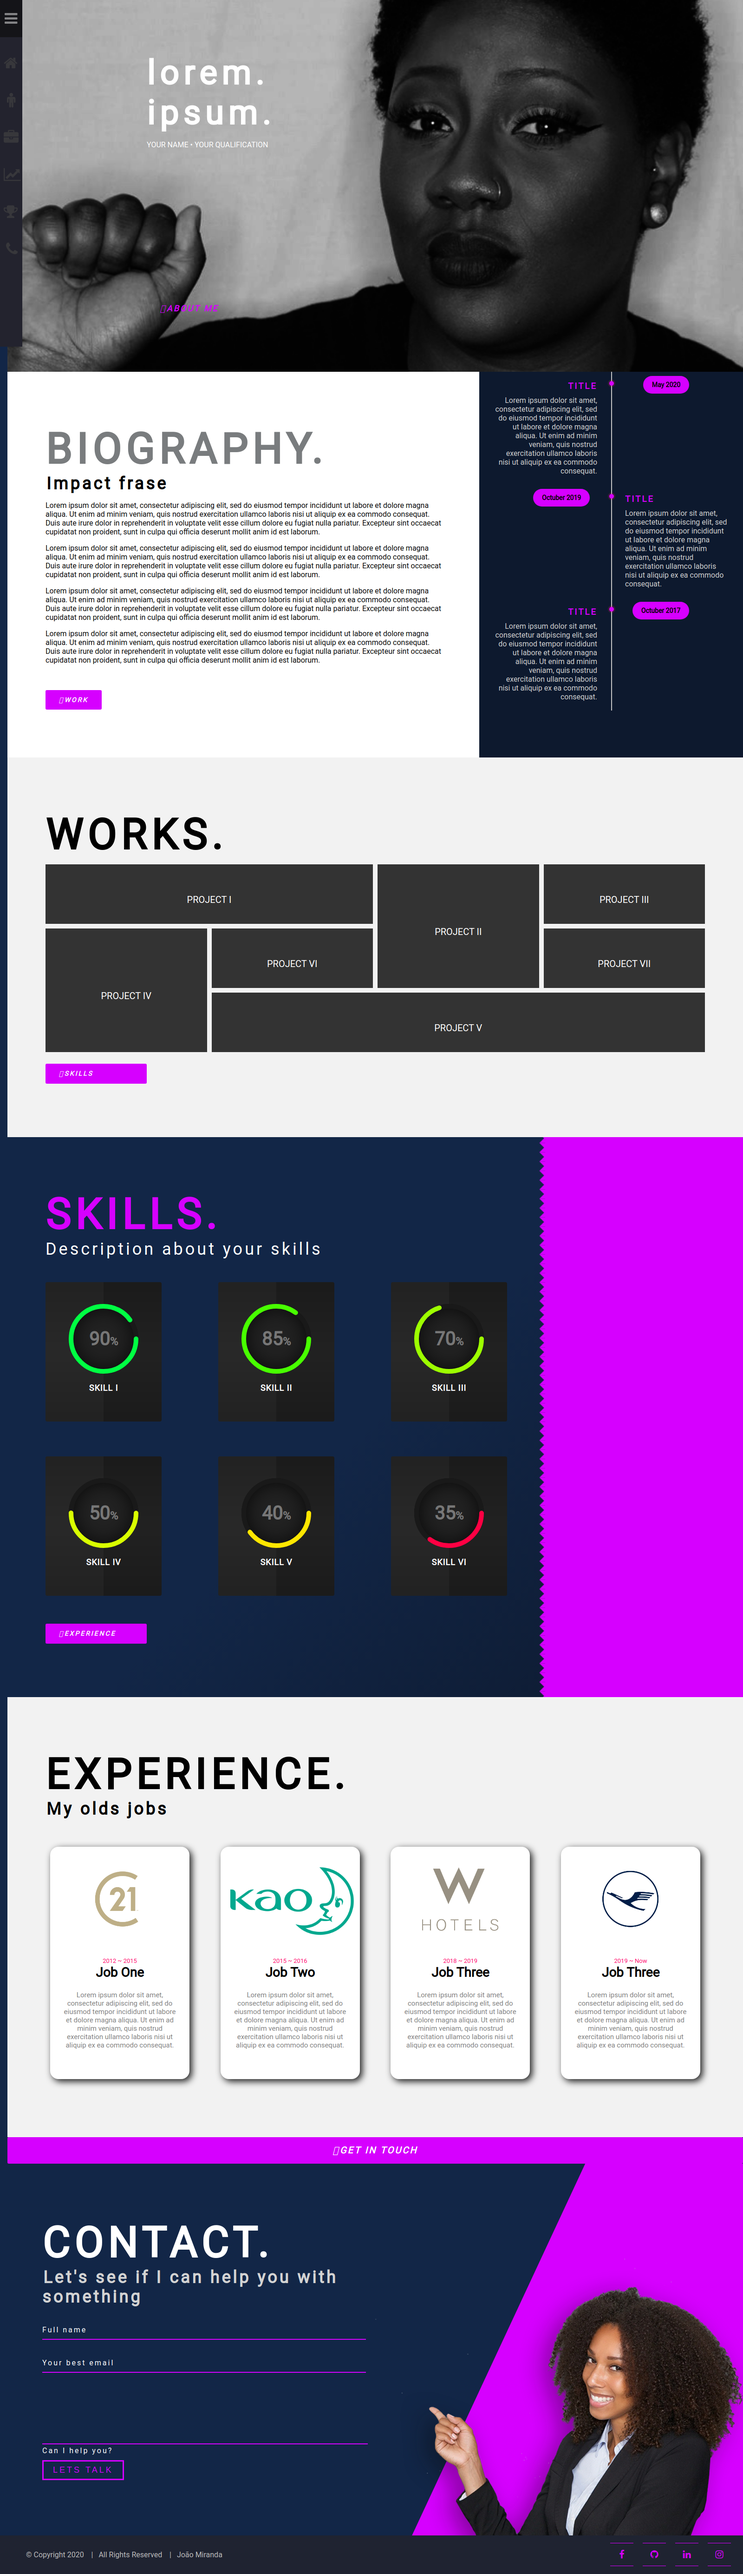
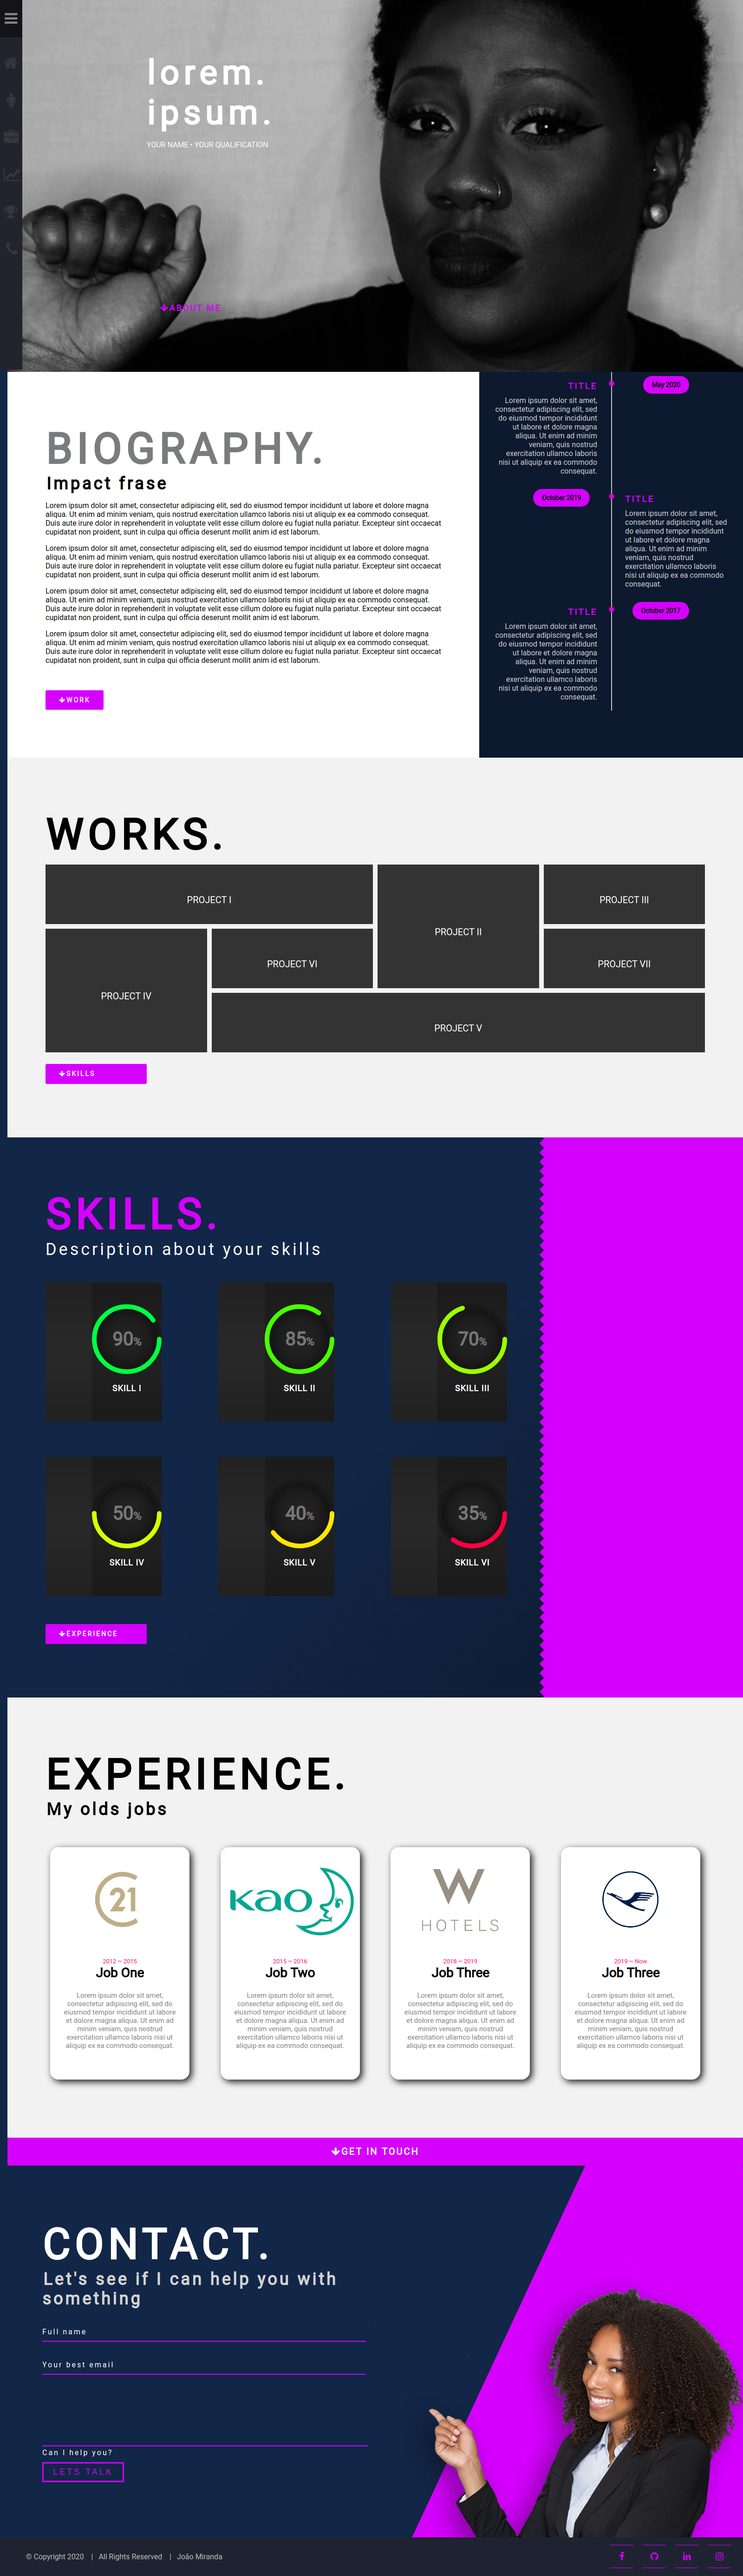
[UPDATE] Add some fix

diff --git a/index.html b/index.html
@@ -2,15 +2,21 @@
 <html lang="en">
 
 <head>
+    <title>Personal Portfolio - Model I</title>
     <meta charset="UTF-8">
+    <meta name="author" content="João Miranda" />
     <meta name="viewport" timecontent="width=device-width, initial-scale=1.0">
-    <title>Portifolio Model</title>
-    <link rel="stylesheet" href="./css/style.css">
+    <meta name="description" content="Hello, my name is Lorem Ipsum and this is my portfolio!" />
 
+    <!-- CSS -->
+    <link rel="stylesheet" href="./css/style.css">
+    <!-- ICONS -->
     <link href="https://stackpath.bootstrapcdn.com/font-awesome/4.7.0/css/font-awesome.min.css" rel="stylesheet"
         integrity="sha384-wvfXpqpZZVQGK6TAh5PVlGOfQNHSoD2xbE+QkPxCAFlNEevoEH3Sl0sibVcOQVnN" crossorigin="anonymous">
-
+    <!-- FONTS -->
     <link href="https://fonts.googleapis.com/css?family=Anton|Gugi|Lato|Roboto|Sofia&display=swap" rel="stylesheet" />
+
+
 </head>
 
 <body>
@@ -25,10 +31,10 @@
                     <span class="link-text logo-text">LOGO</span>
                 </a>
             </li>
-
             <li class="nav-item">
                 <a href="#home" class="nav-link">
                     <i class="fa fa-home fa-2x" aria-hidden="true"></i>
+
                     <span class="link-text">Home</span>
                 </a>
             </li>
@@ -78,7 +84,7 @@
             <h2>lorem. <br>
                 ipsum.</h2>
             <span>YOUR NAME • YOUR QUALIFICATION</span>
-            <a href="#about"><i class="fas fa-chevron-down">About me</i></a>
+            <a href="#about" accesskey="a"><i class="fa fa-arrow-down"></i>About me</a>
         </section>
 
 
@@ -119,7 +125,7 @@
                     cillum dolore eu fugiat nulla pariatur. Excepteur sint occaecat cupidatat non proident, sunt in
                     culpa qui officia deserunt mollit anim id est laborum.
                 </p>
-                <a href="#work" class="navButton"><i class="fas fa-chevron-down">WORK</i></a>
+                <a href="#work" accesskey="w" class="navButton"><i class="fa fa-arrow-down"></i>WORK</a>
             </div>
 
             <section style="width: 40%" class="sec2">
@@ -172,7 +178,7 @@
 
         <!-- Work  -->
         <div id="work" style=" background-color: #f2f2f2;">
-            <div class="" style="display: flex; flex-direction: column; padding: 115px 82px;">
+            <div class="work-control">
                 <div class="workHeader">
 
                     <h2>Works.</h2>
@@ -224,7 +230,7 @@
                 </div>
 
 
-                <a href="#skill"><i class="fas fa-chevron-down">Skills</i></a>
+                <a href="#skill" accesskey="s"><i class="fa fa-arrow-down"></i>Skills</a>
             </div>
 
         </div>
@@ -343,15 +349,9 @@
                     </div>
 
                 </div>
-
-                <a href="#experience"><i class="fas fa-chevron-down">experience</i></a>
-
+                <a href="#experience" accesskey="e"><i class="fa fa-arrow-down"></i>experience</a>
             </div>
-
-            <div class="serrated-sides" style="width: 30%;">
-            </div>
-
-
+            <div class="serrated-sides" style="width: 30%;"></div>
         </div>
 
 
@@ -393,7 +393,6 @@
                     </div>
                     <div class="card-stats"></div>
                 </div>
-
                 <div class="card">
                     <div class="card-image c3"></div>
                     <div class="card-text">
@@ -407,7 +406,6 @@
                     </div>
                     <div class="card-stats"></div>
                 </div>
-
                 <div class="card">
                     <div class="card-image c4"></div>
                     <div class="card-text">
@@ -421,24 +419,11 @@
                     </div>
                     <div class="card-stats"></div>
                 </div>
-
             </div>
-
-
-
-
-
-            <!-- <div class="yin-center">
-                <div class="yin-shape">
-                </div>
-            </div> -->
-
-
-
         </div>
 
         <div class="getouch">
-            <a href="#contact"><i class="fas fa-chevron-down">GET IN TOUCH</i></a>
+            <a href="#contact" accesskey="c"><i class="fa fa-arrow-down"></i>GET IN TOUCH</a>
         </div>
 
 

diff --git a/css/style.css b/css/style.css
@@ -1,8 +1,6 @@
 :root {
     --primary-color: #d600ff;
     /* #ff00ef;  /* #ff7eee;*/
-    --secondary-color: #4bfcfd;
-    --secondary-color-dark: #00b8ff;
 
     --border: #2b303218;
     --back-ground-base: #0d192e;
@@ -10,7 +8,7 @@
 
 
     --light-gray: #2b3032a1;
-    --text-color: #ff686b;
+
 
 
     --roboto: "Roboto", sans-serif;
@@ -21,8 +19,6 @@
 body {
     margin: 0;
     padding: 0;
-    background: #070207;
-    /* background-color: var(--back-ground-base); */
     background: #122647;
     font-family: var(--roboto);
 }
@@ -122,10 +118,6 @@ main a {
 
 .nav-item {
     width: 100%;
-}
-
-.nav-item:last-child {
-    /* margin-top: auto; */
 }
 
 .nav-link {
@@ -363,6 +355,12 @@ main a {
     box-shadow: 0 0 0 3px rgba(233, 33, 99, 0.2);
 }
 
+.work-control {
+    display: flex;
+    flex-direction: column;
+    padding: 115px 82px;
+}
+
 .timeline ul li h3 {
     margin: 0;
     padding: 0;
@@ -432,14 +430,6 @@ main a {
     margin-bottom: 10px;
 }
 
-.workHeader span {
-    /* font-size: 36px;
-    padding: 2px;
-    font-weight: bold;
-    letter-spacing: 5px;
-    font-size: 36px; */
-
-}
 
 #work .container .box {
     background-color: #333;
@@ -448,9 +438,8 @@ main a {
     font-size: 20px;
     place-items: center;
     text-align: center;
-    color: white;
+    color: var(--basic-white);
     transition: 0.5s;
-    /* border: solid red; */
 }
 
 #work .container .box:hover {
@@ -520,7 +509,7 @@ main a {
     left: -25px;
     background-image:
         linear-gradient(45deg, transparent 70%, var(--primary-color) 75%),
-        linear-gradient(135deg, transparent 70%, var(--primary-color)    75%);
+        linear-gradient(135deg, transparent 70%, var(--primary-color) 75%);
 
 }
 
@@ -555,7 +544,7 @@ main a {
 #skill span:nth-child(2) {
     font-size: 36px;
     letter-spacing: 5px;
-    color: white;
+    color: var(--basic-white);
     padding-bottom: 25px;
 }
 
@@ -582,7 +571,7 @@ main a {
 }
 
 #skill .container .card {
-    position: relative;
+    /* position: relative; */
     width: 250px;
     background: linear-gradient(0deg, #1b1b1b, #222, #1b1b1b);
     display: flex;
@@ -602,7 +591,7 @@ main a {
 
 #skill .container .card:before {
     content: '';
-    position: absolute;
+    /* position: absolute; */
     top: 0;
     left: -50%;
     width: 100%;
@@ -662,7 +651,7 @@ main a {
 
 .text {
     position: relative;
-    color: white;
+    color: var(--basic-white);
     margin-top: 20px;
     font-weight: 700;
     font-size: 18px;
@@ -821,7 +810,7 @@ svg circle:nth-child(2) {
     grid-template-areas: "image""text""stats";
     margin: 10px;
     border-radius: 18px;
-    background: white;
+    background: var(--basic-white);
     box-shadow: 5px 5px 15px rgba(0, 0, 0, 0.9);
     text-align: center;
 }
@@ -897,56 +886,12 @@ svg circle:nth-child(2) {
     text-decoration: none;
 }
 
-.yin-center {
-    position: absolute;
-
-    transform: rotateX(45deg);
-    background: #000;
-    border-radius: 50%;
-    border: 5px solid #000;
-}
-
-.yin-shape {
-    width: 200px;
-    height: 100px;
-    border-bottom: 100px solid var(--basic-white);
-    border-radius: 50%;
-}
-
-.yin-shape:before {
-    content: '';
-    position: absolute;
-    top: 25%;
-    right: 0%;
-    width: 20px;
-    height: 20px;
-    background: #000;
-    border: 40px solid var(--basic-white);
-    border-radius: 50%;
-
-}
-
-.yin-shape:after {
-    content: '';
-    position: absolute;
-    top: 25%;
-    left: 0%;
-    width: 20px;
-    height: 20px;
-    background: var(--basic-white);
-    border: 40px solid #000;
-    border-radius: 50%;
-
-}
 
 
 
 
-/* ---- Contact ---- */
+/* ---------------------------------------- Contact ---------------------------------- */
 
-#contact div {
-    /* border: solid red; */
-}
 
 #contact {
     /* position: relative; */
@@ -1377,11 +1322,6 @@ footer {
         transition: none;
         color: #b6b6b6;
     }
-
-    .nav-link::selection {
-        border: solid red;
-    }
-
 }
 
 

diff --git a/README.md b/README.md
@@ -1,5 +1,12 @@
-# portfolio-model-1
-A portfolio model 
+# portfolio-model-1  
+ - A portfolio model  
 
+ - Parallax, Hover effects, Accessible navigability, Animations and Responsive.  
 
-![Config](https://github.com/JoaovMiranda/portfolio-model-1/blob/master/assets/capture.png)
+  - Full page capture
+![Config](https://github.com/JoaovMiranda/portfolio-model-1/blob/master/assets/capture.png)  
+
+  - Side bar menu
+
+![Config](https://github.com/JoaovMiranda/portfolio-model-1/blob/master/assets/capture2.png)  
+  
